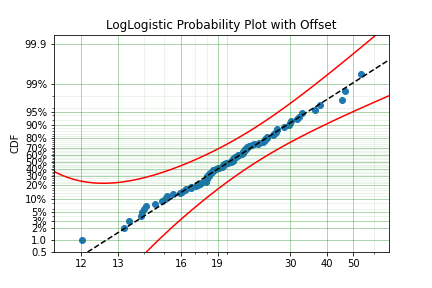
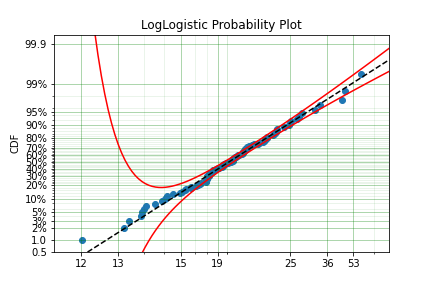
Removed need for OffsetParametric class

diff --git a/surpyval/parametric/parametric.py b/surpyval/parametric/parametric.py
@@ -23,13 +23,28 @@ def _round_vals(x):
 
 class Parametric():
     """
-    Result of ``.fit()`` or ``.from_params()`` method for every parametric surpyval distribution.
+    Result of ``.fit()`` or ``.from_params()`` method for every parametric surpyval 
+    distribution.
     
-    Instances of this class are very useful when a user needs the other functions of a distribution for plotting, optimizations, monte carlo analysis and numeric integration.
+    Instances of this class are very useful when a user needs the other functions 
+    of a distribution for plotting, optimizations, monte carlo analysis and numeric 
+    integration.
 
     """
     def __repr__(self):
-        return 'Parametric Surpyval model with {dist} distribution fitted by {method} yielding parameters {params}'.format(dist=self.dist.name, method=self.method, params=self.params)
+        if self.offset:
+            return ('Parametric Surpyval model with {dist} distribution'
+                    + ' fitted by {method} yielding parameters {params} with offset of '
+                    + '{gamma}').format(dist=self.dist.name,
+                                        method=self.method,
+                                        params=self.params,
+                                        gamma=self.gamma)
+        else:    
+            return ('Parametric Surpyval model with {dist} distribution fitted by '
+                    + '{method} yielding parameters '
+                    + '{params}').format(dist=self.dist.name, 
+                                         method=self.method, 
+                                         params=self.params)
 
     def sf(self, x):
         r"""
@@ -384,7 +399,7 @@ class Parametric():
 
         else:
             def R_cb(x):
-                sf_func = lambda params : self.dist.sf(x - self.gamma, *params)
+                sf_func = lambda params : self.dist.sf(x, *params)
                 jac = np.atleast_2d(jacobian(sf_func)(np.array(self.params)))
                 var_R = []
                 for i, j in enumerate(jac):
@@ -393,7 +408,7 @@ class Parametric():
                     var_R.append(np.sum(j * pvars))
 
                 diff = z(alpha_ci/2) * np.sqrt(np.array(var_R)) * np.array([1., -1.]).reshape(2, 1)
-                R_hat = self.sf(x - self.gamma)
+                R_hat = self.sf(x)
                 exponent = diff/(R_hat*(1 - R_hat))
                 R_cb = R_hat / (R_hat + (1 - R_hat) * np.exp(exponent))
                 return R_cb.T
@@ -419,7 +434,7 @@ class Parametric():
             def cb_df(x):
                 out = []
                 for v in x:
-                    out.append(jacobian(lambda x: -np.log(R_cb(x)))(v) * self.sf(v - self.gamma) )
+                    out.append(jacobian(lambda x: -np.log(R_cb(x)))(v) * self.sf(v) )
                 return np.concatenate(out)
             cb = cb_df(t)
 
@@ -627,7 +642,7 @@ class Parametric():
         y_ticks_labels = [str(int(y))+'%' if (re.match('([0-9]+\.0+)', str(y)) is not None) & 
                             (y > 1) else str(y) for y in y_ticks * 100]
 
-        if hasattr(self, 'hess_inv'):
+        if hasattr(self, 'hess_inv') & (self.method == 'MLE'):
             if (self.hess_inv is not None):
                 cbs = self.cb(x_model + self.gamma, on='ff', alpha_ci=alpha_ci)
             else:

diff --git a/surpyval/parametric/fitters/mle.py b/surpyval/parametric/fitters/mle.py
@@ -51,7 +51,7 @@ def mle(dist, x, c, n, t, const, trans, inv_fs, init, fixed_idx, offset):
     results['t_mle'] = t_mle
 
     # Create the objective function
-    def fun(params, offset=False, transform=True):
+    def fun(params, offset=False, transform=True, gamma=0):
         x_mle = np.copy(x)
         if transform:
             params = inv_fs(const(params))
@@ -59,7 +59,8 @@ def mle(dist, x, c, n, t, const, trans, inv_fs, init, fixed_idx, offset):
             gamma = params[0]
             params = params[1::]
         else:
-            gamma = 0
+            # Use the assumed value. Useful for hessian calcs holding gamma constant
+            pass
 
         inf_c_flags, x_mle = _create_censor_flags(x_mle, gamma, c, dist)
         x_mle = x_mle - gamma
@@ -93,21 +94,22 @@ def mle(dist, x, c, n, t, const, trans, inv_fs, init, fixed_idx, offset):
                 return {}
 
     p_hat = inv_fs(const(res.x))
+
     if offset:
         results['gamma'] = p_hat[0]
-        results['params'] = p_hat[1::]
+        results['params'] = p_hat[1:]
     else:
+        results['gamma'] = 0
         results['params'] = p_hat
 
-    # This needs to be changed so that if offset, it computes only the variation due to the parameters.
+
     try:
-        results['hess_inv'] = inv(hessian(fun)(p_hat, *(offset, False)))
+        results['hess_inv'] = inv(hessian(fun)(results['params'], *(False, False, results['gamma'])))
     except:
         results['hess_inv'] = None
     results['fun'] = fun
     results['jac'] = jac
     results['res'] = res
-
 
     np.seterr(**old_err_state)
 

diff --git a/surpyval/parametric/parametric_fitter.py b/surpyval/parametric/parametric_fitter.py
@@ -642,9 +642,9 @@ class ParametricFitter():
 		return moments
 
 	def fit(self, x=None, c=None, n=None, t=None, how='MLE',
-			offset=False, tl=None, tr=None, xl=None, xr=None,
-			fixed=None, heuristic='Nelson-Aalen', init=[], rr='y',
-			turnbull_estimator='Kaplan-Meier'):
+			offset=False, zi=False, lfp=False, tl=None, tr=None,
+			xl=None, xr=None, fixed=None, heuristic='Nelson-Aalen',
+			init=[], rr='y', turnbull_estimator='Kaplan-Meier'):
 
 		r"""
 
@@ -784,12 +784,6 @@ class ParametricFitter():
 
 		if x.ndim == 2:
 			heuristic = 'Turnbull'
-
-		# Turnbull should be avoided as the alpha and beta matrix can be memory expensive!
-		# if (~np.isfinite(t)).any() & ((-1 not in c) & (2 not in c)):
-		# 	heuristic = kwargs.pop('heuristic', 'Nelson-Aalen')
-		# else:
-		# 	heuristic = kwargs.pop('heuristic', 'Turnbull')
 
 		if surpyval.utils.check_no_censoring(c) and (how == 'MOM'):
 			raise ValueError('Method of moments doesn\'t support censoring')
